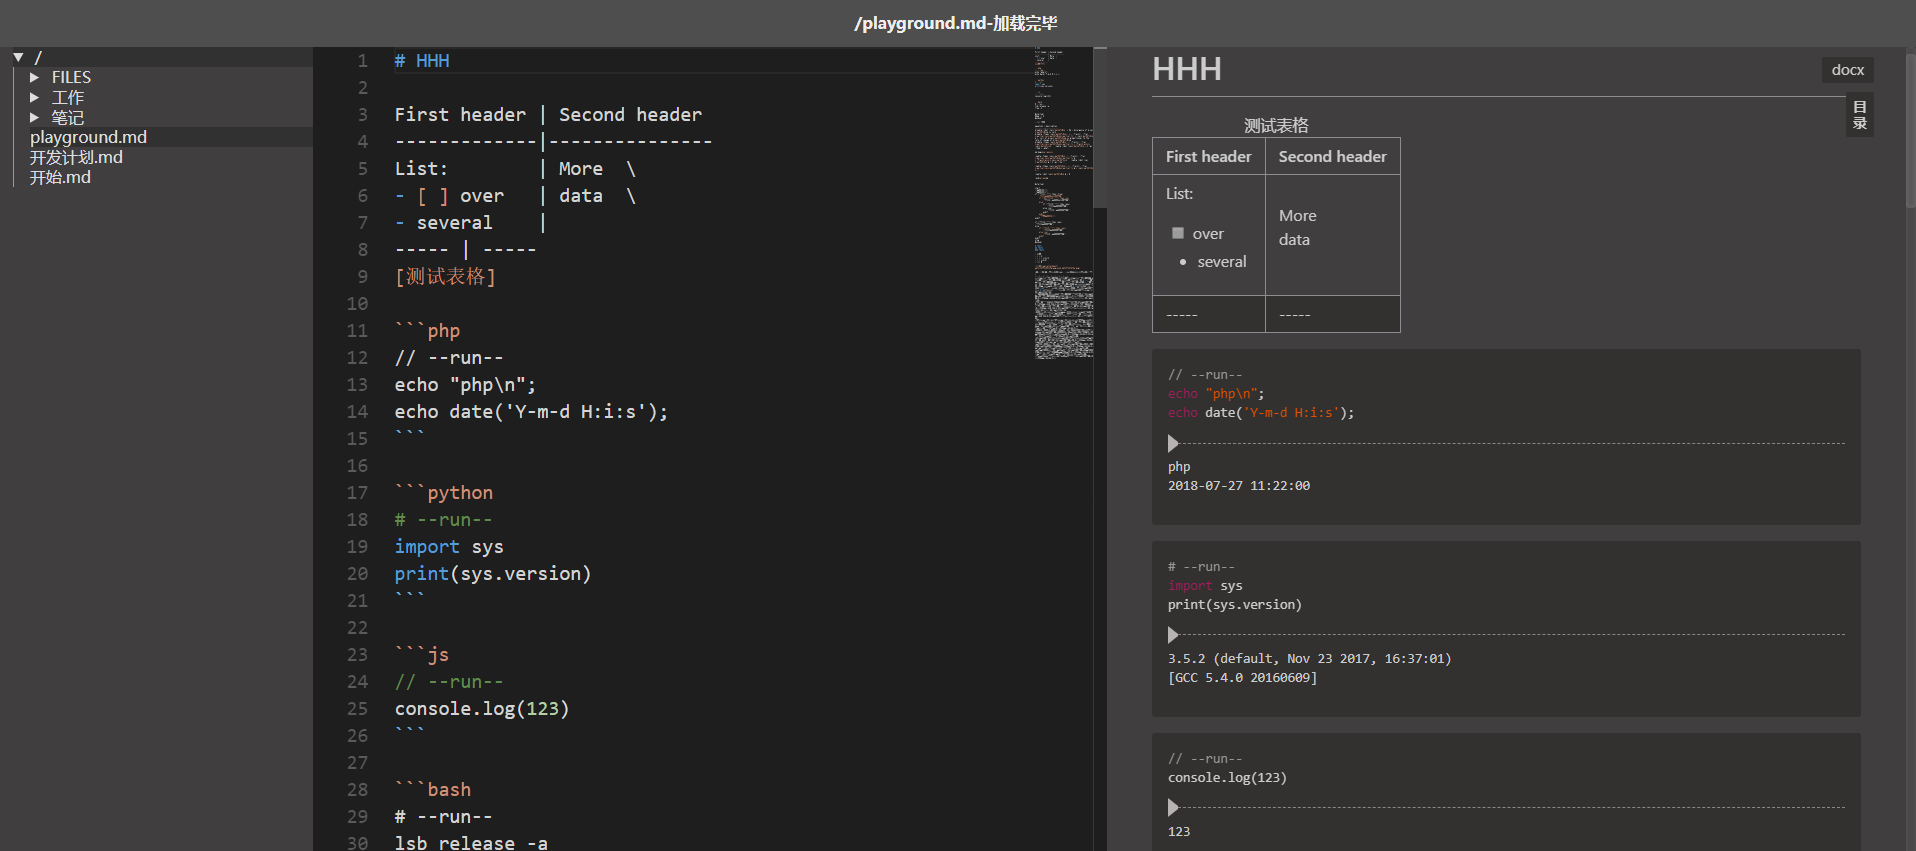
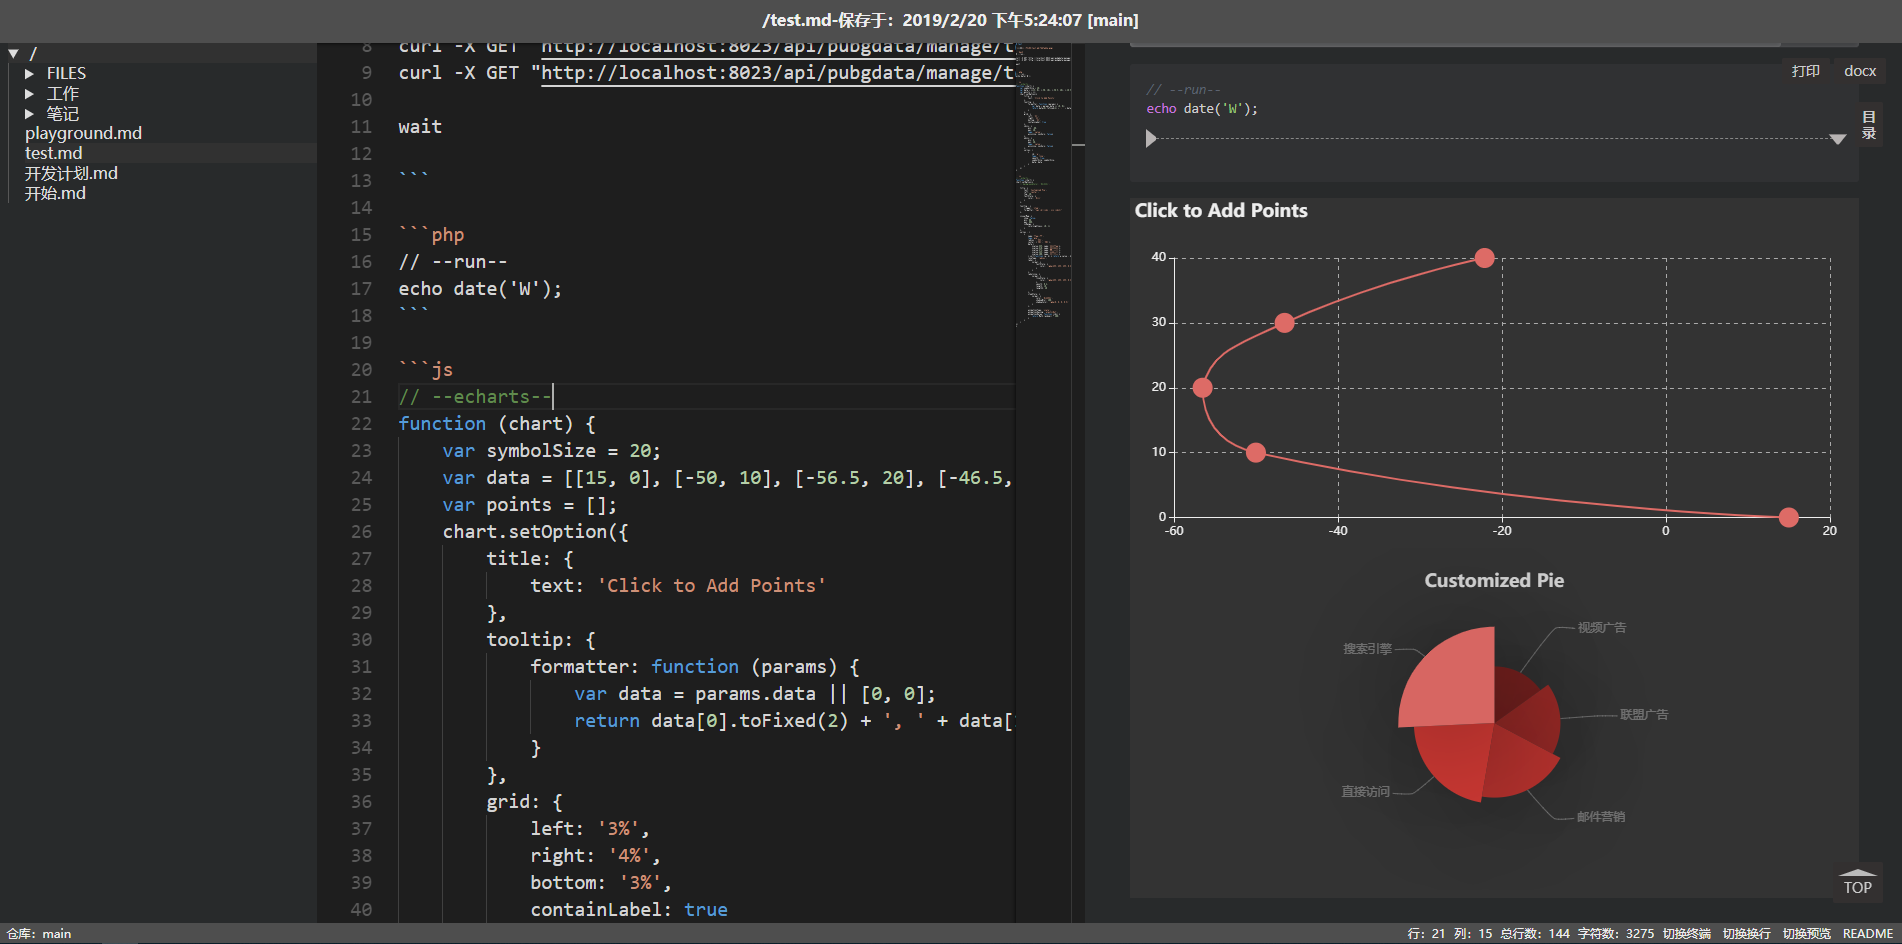
支持 echarts 图形

diff --git a/frontend/src/components/EChartsPlugin.js b/frontend/src/components/EChartsPlugin.js
@@ -1,0 +1,85 @@
+import echarts from 'echarts'
+import CryptoJS from 'crypto-js'
+
+const renderHtml = code => {
+  const id = `echart-${CryptoJS.MD5(code).toString()}-${Math.random().toString(36).substr(2)}`
+
+  return `<div class="echarts" id="${id}" data-code="${encodeURIComponent(code)}"></div>`
+}
+
+const EChartsPlugin = md => {
+  const temp = md.renderer.rules.fence.bind(md.renderer.rules)
+
+  md.renderer.rules.fence = (tokens, idx, options, env, slf) => {
+    const token = tokens[idx]
+    const code = token.content.trim()
+    if (token.info === 'js' && code.split(/\n/)[0].trim().includes('--echarts--')) {
+      return renderHtml(code)
+    }
+
+    return temp(tokens, idx, options, env, slf)
+  }
+}
+
+let charts = {}
+
+EChartsPlugin.update = (theme = 'dark', animation = undefined, renderImg = false) => {
+  Object.values(charts).forEach(x => x.chart.dispose())
+  charts = {}
+
+  for (let ele of document.getElementsByClassName('echarts')) {
+    try {
+      const id = ele.getAttribute('id')
+      const code = ele.dataset['code']
+
+      if (code) {
+        const chart = echarts.init(ele, theme)
+        // eslint-disable-next-line
+        eval(`(${decodeURIComponent(code)})(chart)`)
+
+        if (animation !== undefined) {
+          chart.setOption({animation})
+        }
+
+        let img = null
+
+        if (renderImg) {
+          img = new Image()
+          img.width = ele.clientWidth
+          img.height = ele.clientHeight
+          img.src = chart.getDataURL()
+        }
+
+        charts[id] = { chart, img }
+      }
+    } catch (error) {
+      ele.innerText = error
+    }
+  }
+}
+
+EChartsPlugin.preparePrint = () => {
+  EChartsPlugin.update('light', false, true)
+
+  for (let ele of document.getElementsByClassName('echarts')) {
+    while (ele.firstChild) {
+      ele.firstChild.remove()
+    }
+
+    const id = ele.getAttribute('id')
+
+    if (charts[id] && charts[id].img) {
+      ele.appendChild(charts[id].img)
+    }
+  }
+}
+
+window.addEventListener('resize', () => {
+  Object.values(charts).forEach(x => x.chart.resize())
+})
+
+window.addEventListener('beforeprint', () => {
+  EChartsPlugin.update('light', false)
+})
+
+export default EChartsPlugin

diff --git a/frontend/src/components/View.vue b/frontend/src/components/View.vue
@@ -46,6 +46,7 @@ import MultimdTable from 'markdown-it-multimd-table'
 import Highlight from 'highlight.js'
 
 import MarkdownItToc from './TocPlugin'
+import MarkdownItECharts from './EChartsPlugin'
 import RunPlugin from './RunPlugin'
 import SourceLinePlugin from './SourceLinePlugin'
 import LinkTargetPlugin from './LinkTargetPlugin'
@@ -95,6 +96,7 @@ export default {
         .use(LinkTargetPlugin)
         .use(MultimdTable, {enableMultilineRows: true})
         .use(MarkdownItToc)
+        .use(MarkdownItECharts)
     }
   },
   mounted () {
@@ -105,6 +107,7 @@ export default {
     this.render = _.debounce(() => {
       this.$refs.view.innerHTML = this.markdown.render(this.replaceRelativeLink(this.value))
       MermaidPlugin.update()
+      MarkdownItECharts.update()
       this.updateOutline()
       this.updateTodoCount()
       this.updatePlantumlDebounce()
@@ -239,6 +242,8 @@ export default {
       }
     },
     convertFile (type) {
+      MarkdownItECharts.preparePrint()
+
       const baseUrl = location.origin + location.pathname.substring(0, location.pathname.lastIndexOf('/')) + '/'
 
       this.convert = {
@@ -246,6 +251,7 @@ export default {
         html: this.$refs.view.outerHTML.replace(/src="api/g, `src="${baseUrl}api`),
         type
       }
+      MarkdownItECharts.update()
       setTimeout(() => {
         this.$refs.convertForm.submit()
       }, 300)
@@ -266,6 +272,13 @@ export default {
   }
 }
 </script>
+
+<style>
+.echarts {
+  width: 100%;
+  height: 350px;
+}
+</style>
 
 <style scoped>
 .markdown-body {

diff --git a/frontend/src/pages/Home.vue b/frontend/src/pages/Home.vue
@@ -323,6 +323,10 @@ export default {
 }
 
 @media print {
+  .content {
+    width: 100%;
+  }
+
   .editor, .header, .tree, .status-bar {
     display: none;
   }

diff --git a/README.md b/README.md
@@ -76,19 +76,20 @@
 + 列表自动补全
 + 粘贴剪切板里面的图片
 + 添加附件到文档
-+ 运行 PHP，nodejs，Python，bash 代码，代码块第一行需要包含以 `--run--` 字符串，示例见下面截图，当然需要安装相关环境
++ 运行 PHP，nodejs，Python，bash 代码，**代码块第一行需要包含以 `--run--` 字符串，示例见下面截图，当然需要安装相关环境**
 + 开启了 HTML 解析，可以直接在文档里面使用 HTML 代码
 + 待办进度条
 + 快速跳转文件，全文搜索文件内容
 + 多仓库切换
 + 生成 TOC 在需要生成目录的地方写入 `[toc]{type: "ol", level: [1,2,3]}` 即可
-+ docx 格式导出，需要安装 [pandoc](https://pandoc.org/)
++ docx 格式导出，**需要安装 [pandoc](https://pandoc.org/)**
++ ECharts 图形支持装 [ECharts](https://echarts.baidu.com/) **Js代码块第一行需要包含以 `--echarts--` 字符串，示例见下面截图**
 + markdown 编辑器 [monaco-editor](https://github.com/Microsoft/monaco-editor)
 + markdown 解析 [markdown-it](https://github.com/markdown-it/markdown-it)
 + GitHub 风格样式和特性 [GitHub Flavored Markdown Spec](https://github.github.com/gfm/)
 + 待办列表 [GitHub-style task lists](https://github.com/revin/markdown-it-task-lists)
 + mermaid 图形 [mermaid](https://github.com/knsv/mermaid)
-+ Plantuml 图形，需要安装 Java，graphviz [markdown-it-plantuml](https://github.com/gmunguia/markdown-it-plantuml)
++ Plantuml 图形，**需要安装 Java，graphviz [markdown-it-plantuml](https://github.com/gmunguia/markdown-it-plantuml)**
 + katex 公式解析 [markdown-it-katex](https://github.com/waylonflinn/markdown-it-katex)
 + 元素属性书写 [markdown-it-attrs](https://github.com/arve0/markdown-it-attrs)
 + 表格解析增强，支持表格标题多行文本，列表等特性 [markdown-it-multimd-table](https://github.com/RedBug312/markdown-it-multimd-table)
@@ -130,6 +131,7 @@
 + [x] 状态栏
 + [x] toc 生成
 + [x] 内置终端
++ [x] EChart 图表
 + [ ] 代码块渲染增加行号
 + [ ] 信息流，定时任务
 + [ ] 标签支持
@@ -144,5 +146,4 @@
 ![截图](./1.png)
 ![截图](./2.png)
 ![截图](./3.png)
-![截图](./5.gif)
-![截图](./6.png)
+![截图](./4.gif)
